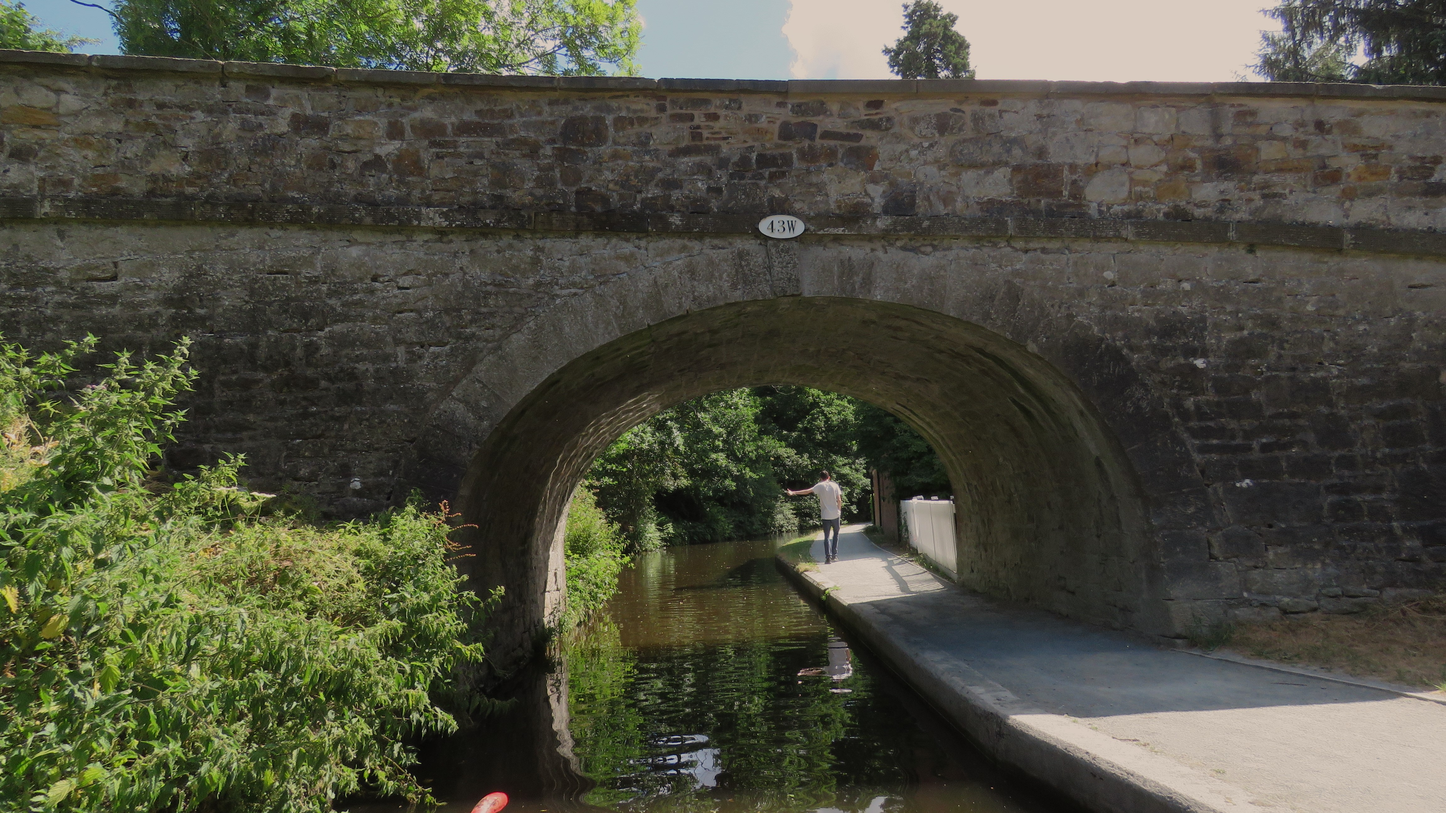
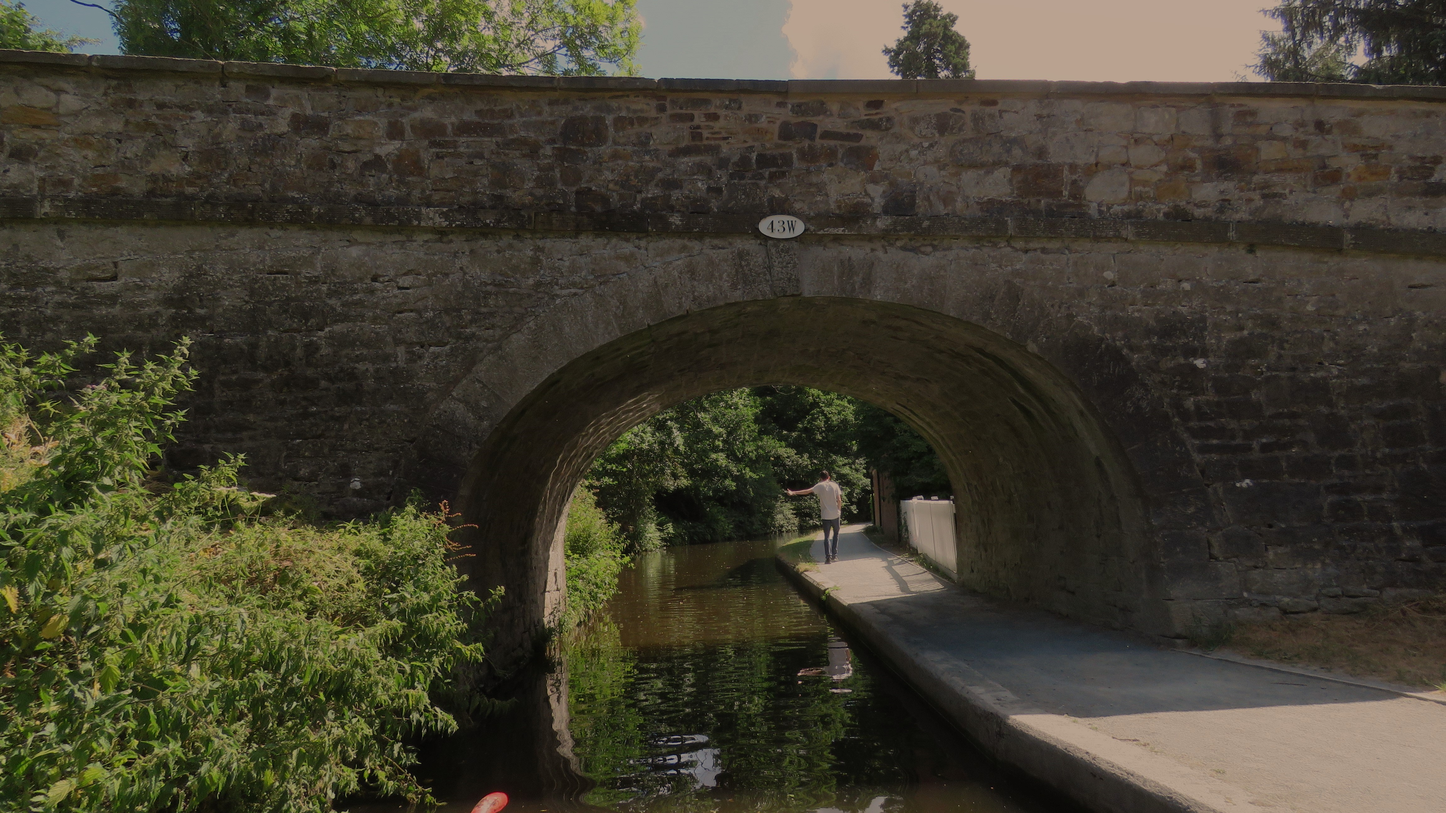
Fix v4 landing page

diff --git a/styles.css b/styles.css
@@ -79,7 +79,7 @@ nav{
     padding: 0;
     width: 100%;
     height: 100vh;
-    background-image: url("images/background.png");
+    background-image: url("images/background.JPG");
     color: white;
     background-repeat: no-repeat;
     background-size: cover;
